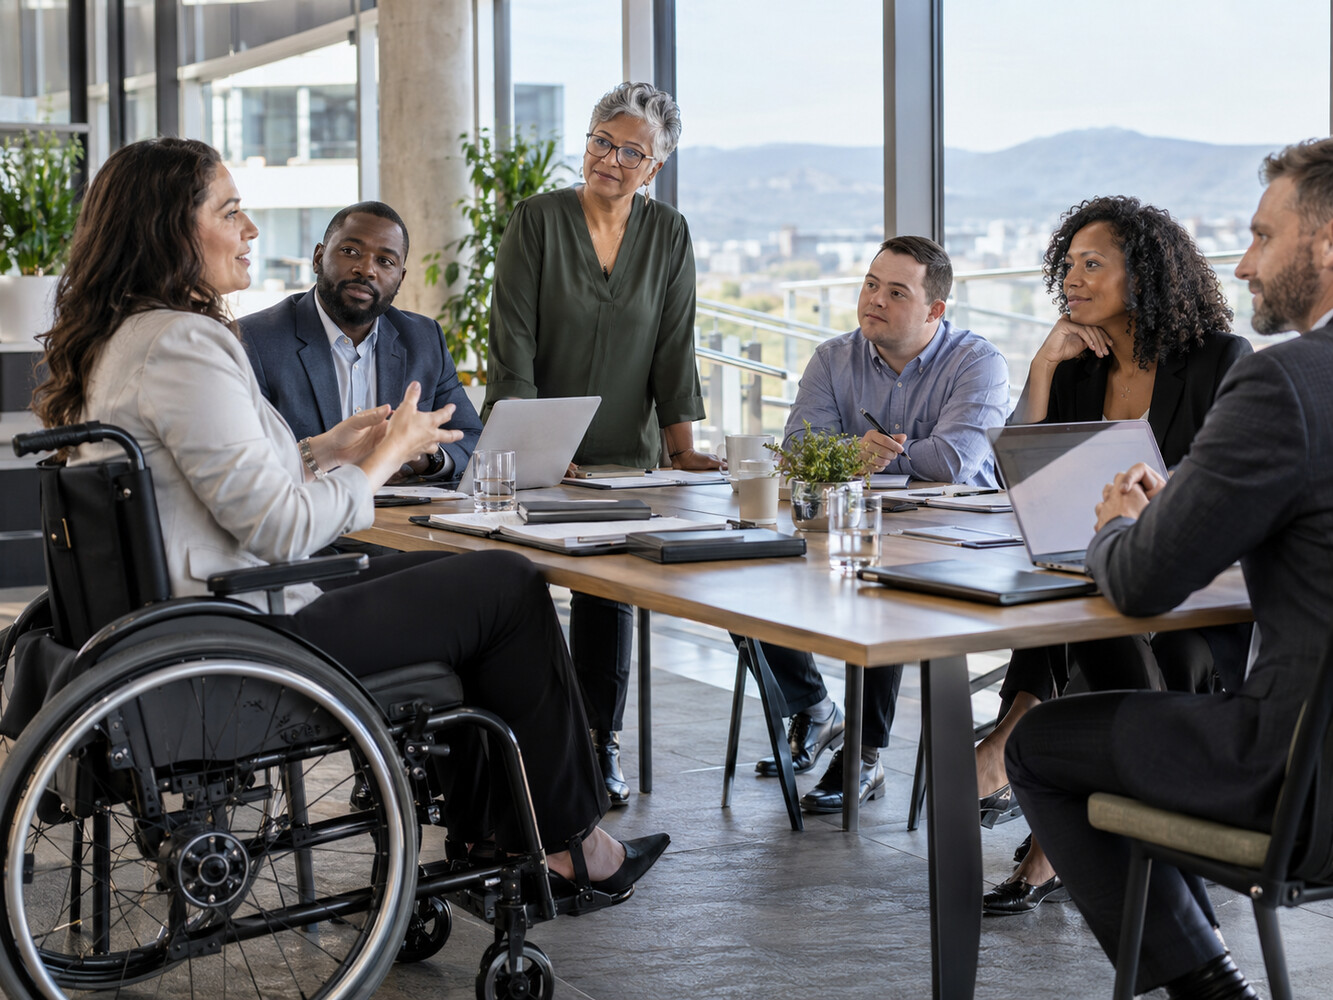
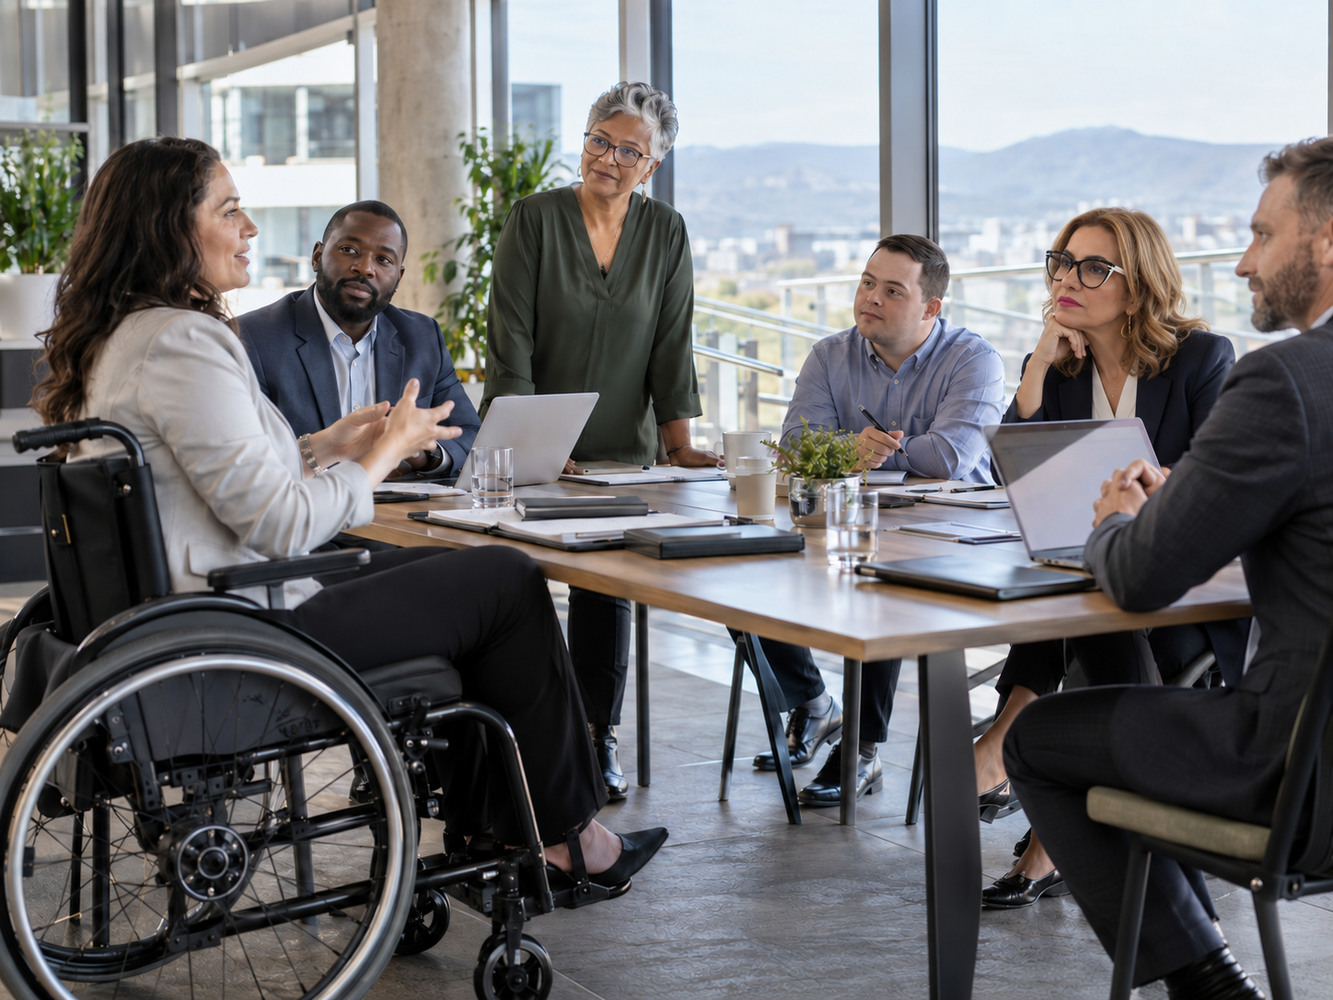
Refina imagens e preenche área de atuação

diff --git a/index.html b/index.html
@@ -447,8 +447,8 @@
           </article>
 
           <!-- CARD 8: PESSOA COM DEFICIÊNCIA E INCLUSÃO -->
-          <article class="group overflow-hidden border border-institutional-gold/60 bg-institutional-charcoal transition duration-300 hover:border-institutional-gold">
-            <div class="relative h-64 overflow-hidden">
+          <article class="group overflow-hidden border border-institutional-gold/60 bg-institutional-charcoal transition duration-300 hover:border-institutional-gold lg:col-span-2 lg:grid lg:grid-cols-[1.15fr_.85fr]">
+            <div class="relative h-64 overflow-hidden lg:h-auto">
               <img src="assets/pessoa-deficiencia-inclusao.jpg" alt="Reunião profissional inclusiva com pessoa com deficiência" class="h-full w-full object-cover transition duration-700 group-hover:scale-105" loading="lazy">
               <span class="absolute left-5 top-5 border border-institutional-gold bg-black/80 px-3 py-1 text-xs tracking-wider text-institutional-gold">08</span>
             </div>
@@ -459,6 +459,18 @@
               <a href="direito-pessoa-deficiencia.html" class="mt-8 inline-flex text-sm font-semibold text-institutional-champagne transition group-hover:text-white">Conhecer esta área →</a>
             </div>
           </article>
+
+          <!-- MENSAGEM PROPOSITIVA -->
+          <a href="#contato" class="group relative min-h-[420px] overflow-hidden border border-institutional-gold bg-institutional-charcoal shadow-gold">
+            <img src="assets/estrategia-juridica.jpg" alt="Equipe jurídica trabalhando em estratégia e prevenção" class="absolute inset-0 h-full w-full object-cover transition duration-700 group-hover:scale-105" loading="lazy">
+            <div class="absolute inset-0 bg-gradient-to-t from-black via-black/55 to-black/10"></div>
+            <div class="absolute inset-x-0 bottom-0 p-8">
+              <p class="text-xs font-semibold uppercase tracking-[.22em] text-institutional-gold">Orientação preventiva</p>
+              <h3 class="mt-3 font-display text-3xl font-semibold leading-tight text-white">Seu direito merece estratégia antes que o conflito aconteça.</h3>
+              <p class="mt-4 text-sm leading-relaxed text-white/70">Antecipar riscos, organizar documentos e agir no momento certo protege pessoas, instituições e patrimônios.</p>
+              <span class="mt-6 inline-flex text-sm font-semibold text-institutional-champagne">Falar com a Dra. Deijanete →</span>
+            </div>
+          </a>
 
         </div>
       </div>
